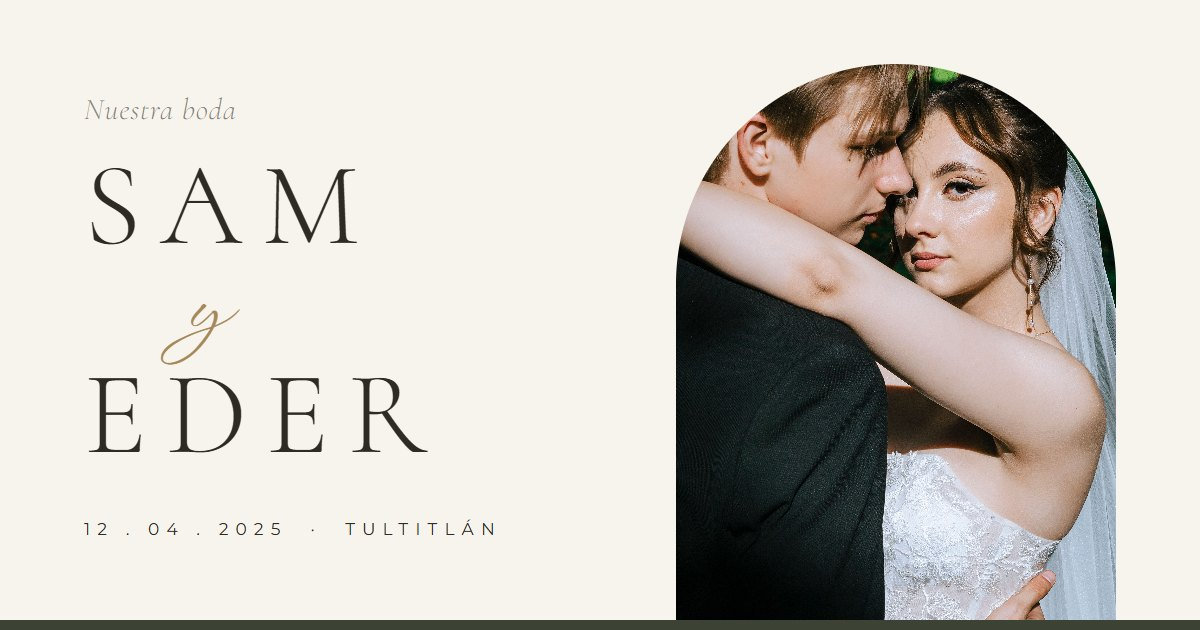
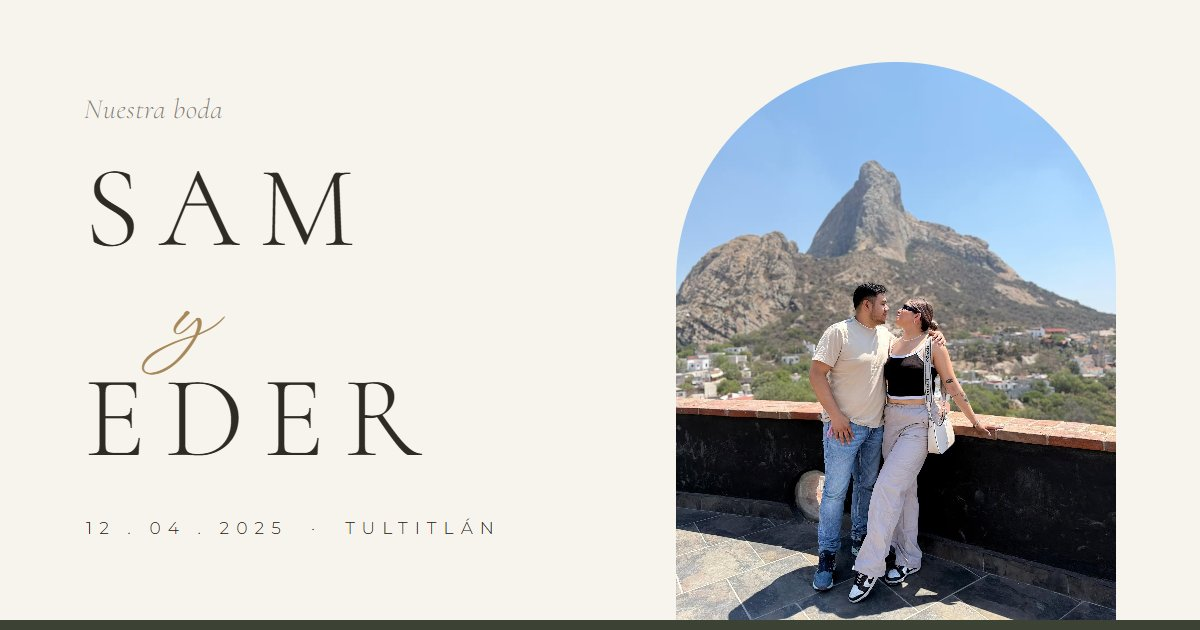
fix: imagen para compartir con la foto propia del hero

diff --git a/lib/wedding.ts b/lib/wedding.ts
@@ -38,7 +38,7 @@ export const wedding = {
     // TODO: dato real (confirmar la URL que asigne Vercel)
     siteUrl: "https://boda-sam-eder.vercel.app",
     ogImage: {
-      src: "/og-image.jpg",
+      src: "/og-image.jpg?v=2",
       width: 1200,
       height: 630,
       alt: "Sam y Eder · 12 de abril de 2025 · Tultitlán, Estado de México",
